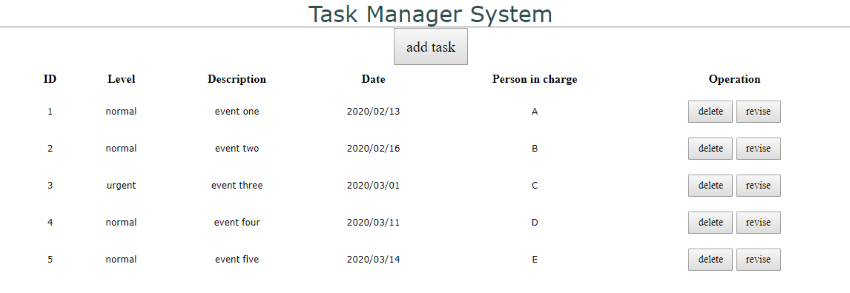
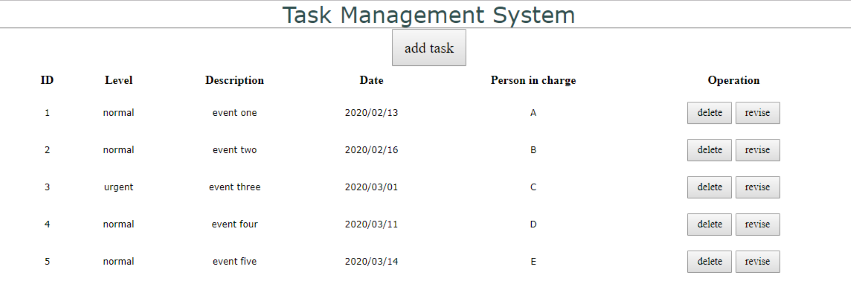
initial submit

diff --git a/src/main/resources/templates/users.html b/src/main/resources/templates/users.html
@@ -199,7 +199,7 @@
 
 
 <div style="text-align: center">
-        <span class="span" style="color: darkslategray; font-size: 30px" >Task Manager System</span>
+        <span class="span" style="color: darkslategray; font-size: 30px" >Task Management System</span>
     <hr/>
     <table class="list">
 

diff --git a/target/classes/templates/users.html b/target/classes/templates/users.html
@@ -199,7 +199,7 @@
 
 
 <div style="text-align: center">
-        <span class="span" style="color: darkslategray; font-size: 30px" >Task Manager System</span>
+        <span class="span" style="color: darkslategray; font-size: 30px" >Task Management System</span>
     <hr/>
     <table class="list">
 
